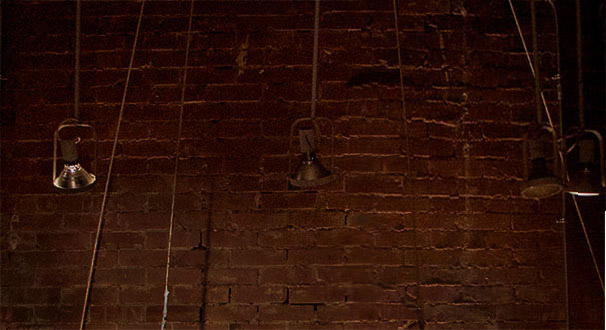
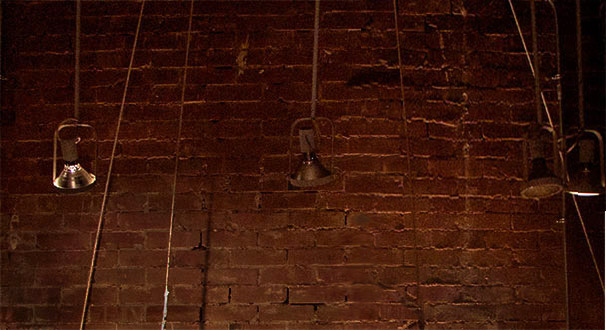
Removed stellar, used fixed positioning on background images instead. Lightened both background images. Added social images to assets folder, not in the site yet though.

diff --git a/app/assets/stylesheets/pages.css.scss b/app/assets/stylesheets/pages.css.scss
@@ -43,8 +43,9 @@
 // // BASIC INFO SECTION
 
 	section.basic-info {
-		background: #f99 url('brick_wall_edited.jpg') no-repeat 50% 50%;
+		background: #000 url('brick_wall_edited.jpg') no-repeat 50% 50%;
 		background-size: cover;
+		background-attachment: fixed;
 		box-shadow: inset 0 -24px 12px -8px rgba(0,0,0,.50),
 					inset 0 24px 12px -8px rgba(0,0,0,.25);
 
@@ -153,6 +154,7 @@
 	section.philosophy {
 		background: #000 url('wood.jpg') 50% 50% no-repeat;
 		background-size: cover;
+		background-attachment: fixed;
 		padding: 3rem 0;
 
 		li {
